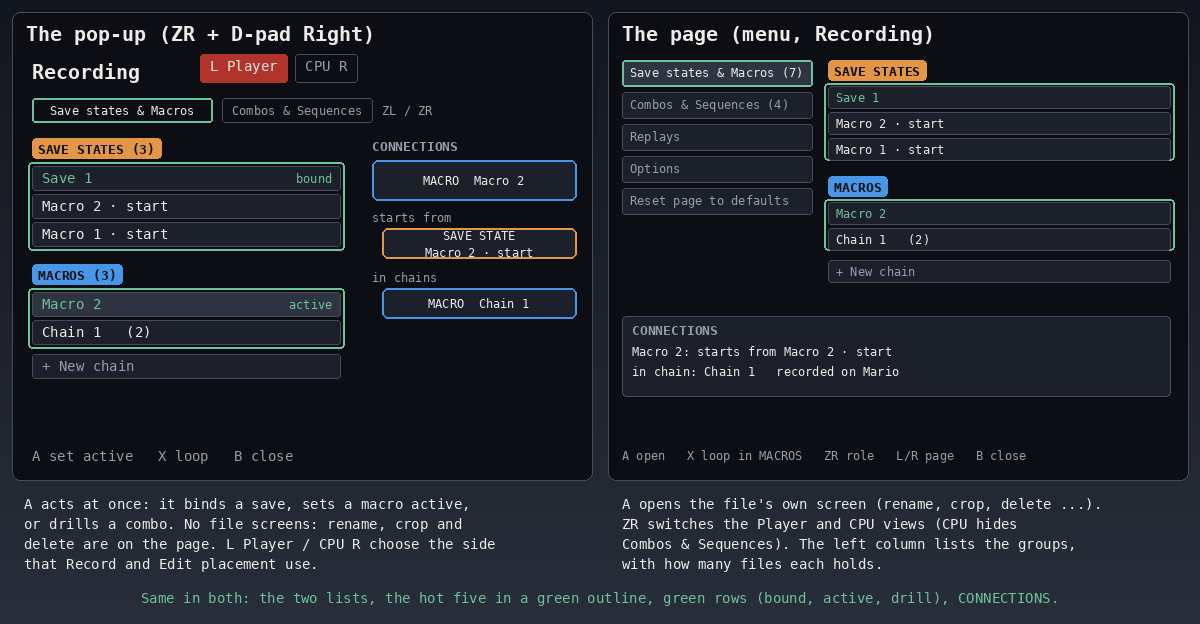
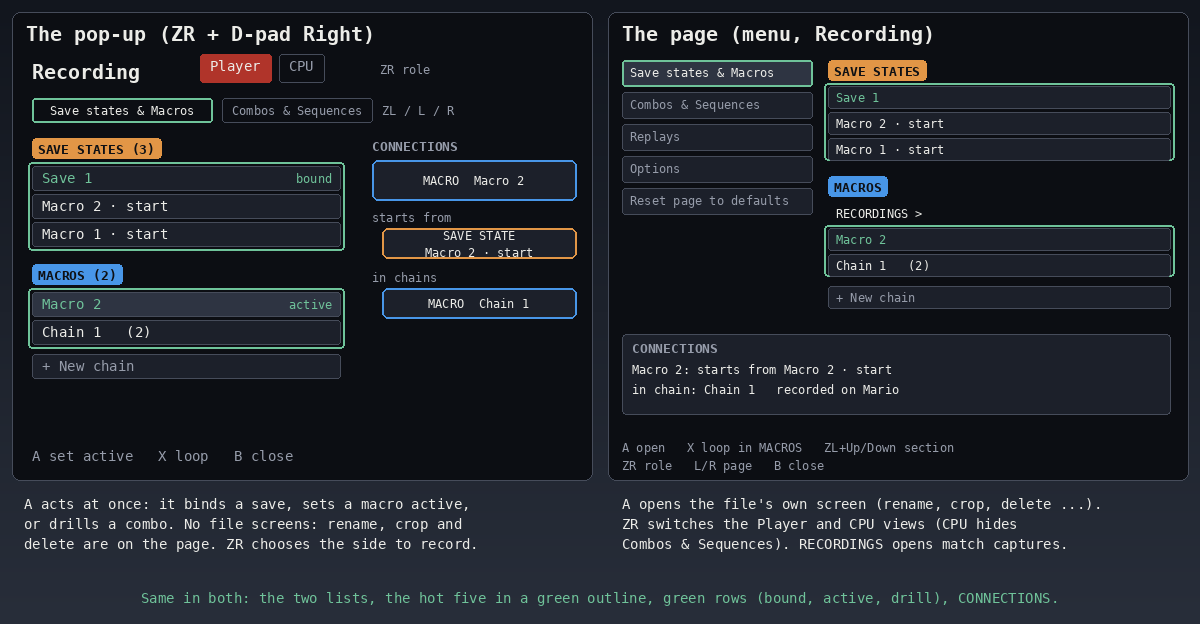
Show current Recording controls and distinguish the combo card from its link cells

diff --git a/tools/render_recording_diagrams.py b/tools/render_recording_diagrams.py
@@ -307,13 +307,14 @@ def page_popup():
     c.rect(12, 12, mid - 8, 480, fill=PANEL, outline=LINE, radius=8)
     c.text(26, 22, "The pop-up (ZR + D-pad Right)", "h", FG)
     c.text(32, 60, "Recording", "h", FG)
-    d.tabs(c, 200, 58, ["L Player", "CPU R"], 0, "xs")
+    d.tabs(c, 200, 58, ["Player", "CPU"], 0, "xs")
+    c.text(380, 62, "ZR role", "xxs", MUTED)
     px = 32
     c.rect(px, 98, px + 180, 122, outline=GREEN, width=2, radius=3)
     c.text(px + 90, 103, "Save states & Macros", "xxs", FG, "m")
     c.rect(px + 190, 98, px + 340, 122, outline=LINE, width=1, radius=3)
     c.text(px + 265, 103, "Combos & Sequences", "xxs", MUTED, "m")
-    c.text(px + 350, 103, "ZL / ZR", "xxs", MUTED)
+    c.text(px + 350, 103, "ZL / L / R", "xxs", MUTED)
     # the lists
     lx0, lx1 = 32, 340
     y = 138
@@ -328,7 +329,7 @@ def page_popup():
             c.text(lx1 - 8, y + 5, "bound", "xxs", GREEN, "r")
         y += 28
     y += 14
-    d.tag(c, lx0, y, "MACROS (3)", MACRO_C)
+    d.tag(c, lx0, y, "MACROS (2)", MACRO_C)
     y += 28
     c.rect(lx0 - 4, y - 4, lx1 + 4, y + 28 + 28, outline=GREEN, width=2, radius=4)
     for i, (t, col) in enumerate([("Macro 2", GREEN), ("Chain 1   (2)", FG), ("+ New chain", MUTED)]):
@@ -352,7 +353,7 @@ def page_popup():
     c.rect(mid + 8, 12, W - 12, 480, fill=PANEL, outline=LINE, radius=8)
     c.text(mid + 22, 22, "The page (menu, Recording)", "h", FG)
     gx = mid + 22
-    groups = [("Save states & Macros (7)", True), ("Combos & Sequences (4)", False), ("Replays", False), ("Options", False),
+    groups = [("Save states & Macros", True), ("Combos & Sequences", False), ("Replays", False), ("Options", False),
               ("Reset page to defaults", False)]
     y = 60
     for t, sel in groups:
@@ -372,6 +373,8 @@ def page_popup():
     y += 12
     d.tag(c, lx0, y, "MACROS", MACRO_C)
     y += 26
+    c.text(lx0 + 8, y + 4, "RECORDINGS >", "xxs", FG)
+    y += 26
     c.rect(lx0 - 4, y - 3, lx1 + 4, y + 26 + 22, outline=GREEN, width=2, radius=4)
     for i, (t, col) in enumerate((("Macro 2", GREEN), ("Chain 1   (2)", FG), ("+ New chain", MUTED))):
         c.rect(lx0, y, lx1, y + 22, fill=TILE, outline=LINE, radius=3)
@@ -379,20 +382,19 @@ def page_popup():
         y += 26
         if i == 1:
             y += 6
-    c.rect(gx, 316, W - 30, 396, fill=TILE, outline=LINE, radius=4)
-    c.text(gx + 10, 322, "CONNECTIONS", "b", MUTED)
-    c.text(gx + 10, 344, "Macro 2: starts from Macro 2 · start", "xxs", FG)
-    c.text(gx + 10, 364, "in chain: Chain 1   recorded on Mario", "xxs", FG)
-    c.text(gx, 448, "A open   X loop in MACROS   ZR role   L/R page   B close", "xxs", MUTED)
+    c.rect(gx, 334, W - 30, 414, fill=TILE, outline=LINE, radius=4)
+    c.text(gx + 10, 340, "CONNECTIONS", "b", MUTED)
+    c.text(gx + 10, 362, "Macro 2: starts from Macro 2 · start", "xxs", FG)
+    c.text(gx + 10, 382, "in chain: Chain 1   recorded on Mario", "xxs", FG)
+    c.text(gx, 440, "A open   X loop in MACROS   ZL+Up/Down section", "xxs", MUTED)
+    c.text(gx, 458, "ZR role   L/R page   B close", "xxs", MUTED)
     # ---- the notes
     c.text(24, 496, "A acts at once: it binds a save, sets a macro active,", "xs", FG)
     c.text(24, 516, "or drills a combo. No file screens: rename, crop and", "xs", FG)
-    c.text(24, 536, "delete are on the page. L Player / CPU R choose the side", "xs", FG)
-    c.text(24, 556, "that Record and Edit placement use.", "xs", FG)
+    c.text(24, 536, "delete are on the page. ZR chooses the side to record.", "xs", FG)
     c.text(mid + 22, 496, "A opens the file's own screen (rename, crop, delete ...).", "xs", FG)
     c.text(mid + 22, 516, "ZR switches the Player and CPU views (CPU hides", "xs", FG)
-    c.text(mid + 22, 536, "Combos & Sequences). The left column lists the groups,", "xs", FG)
-    c.text(mid + 22, 556, "with how many files each holds.", "xs", FG)
+    c.text(mid + 22, 536, "Combos & Sequences). RECORDINGS opens match captures.", "xs", FG)
     c.text(W / 2, 590, "Same in both: the two lists, the hot five in a green outline, green rows (bound, active, drill), CONNECTIONS.",
            "xs", GREEN, "m")
     c.save("recording-page-popup")

diff --git a/docs/TECHNICAL.md b/docs/TECHNICAL.md
@@ -68,11 +68,7 @@ right panel is the same capsules as one pill each. [Decisions](DECISIONS.md)*
 
 ### Frame strip
 
-The input display (Display & Controls › Input Display) is a strip at the top of the screen: the last second of
-Player 1 and the CPU, a chip for each new button, and ADVANTAGE, LINK, and INPUT for the last exchange. ADVANTAGE is
-the CPU's first actionable frame minus yours. Plus means you act first. [FRAME-STRIP.md](guide/frame-strip.md)
-is how to read the lanes, the stick row, and the readouts. The rc.5 clips are listed in
-[MEDIA.md](MEDIA.md).
+See the [frame strip guide](guide/frame-strip.md) for the lanes and readouts, and [Media](MEDIA.md) for the rc.5 clips.
 
 **Clip** [`rc8-input-display-chord.gif`](media/rc8-input-display-chord.gif): R + D-pad Down hides the frame strip, then shows it again
 
@@ -331,10 +327,8 @@ on Player 1 is off", "… Quick Reset is off"), and Player 1's input is left to 
 (jab → jab) drilled; the jabs; the bar under the frame strip grades the attempt: TRUE −5, on time. Cuts inside are
 listed in [MEDIA.md](MEDIA.md).*
 
-*+ Save last combo…*, the first row of COMBOS on the Recording page and in the recording pop-up, keeps your last combo
-as a file and makes it the drill. With *Combo helper* On, a bar under the frame strip grades each attempt link by link:
-whether the recorded inputs came, in order and on time, and whether the same move came out. A true combo is shown,
-not required. Drilling a sequence adds a header and a row of its combos to that bar.
+The [Recording guide](guide/recording.md#combos) covers saving and drilling a combo. In a sequence, the
+[corner card](design/compact-strip-layout.md) stacks up to three combos; the cells beneath the strip show individual links.
 
 Where the combo code is (moved here from the [Combo files](guide/combos.md) guide): the spec is
 [SPEC-input-07](../specs/SPEC-input-07-combo-helper.md). The drill is kept in `recording-index.json`, the recording
@@ -583,7 +577,7 @@ else keeps it hidden, decision N1). While it's hidden its rows do nothing. All t
 | Row | What it does |
 | --- | --- |
 | Preload Samples | Writes sparse timing and memory samples of preloads to the diagnostics file. |
-| Reload developer config | While On, holding L + R + A on Player 1 re-reads the developer config file every frame. |
+| Reload developer config | In Training, each P1 poll holding L + R + A queues a worker read of `dev.json`. |
 | Debug hooks | Turns on the debug watch on the Kirby backshield work float. |
 
 ### Menu shortcuts and replay capture

diff --git a/docs/menu/recording.md b/docs/menu/recording.md
@@ -4,8 +4,8 @@ Press R twice from the CPU page for your recordings, your combos and their playb
 
 ## The page and its pop-up
 
-![The pop-up and the page side by side: both show the same two lists, the hot five and CONNECTIONS](../diagrams/recording-page-popup.png)<br>
-*The pop-up and the page show the same lists.*
+![The same saves and macros in both views, with RECORDINGS on the page only](../diagrams/recording-page-popup.png)<br>
+*The page also opens match recordings.*
 
 Use your [Recording pop-up chord](display-and-controls.md#button-chords) to open the library over practice.
 
@@ -95,7 +95,7 @@ How a macro plays back, and how the Combo helper grades.
 | <a id="loop"></a>Loop | ∞, **1**, 2, 3, 5, 10 | How many times the active macro plays. X cycles it in MACROS. |
 | <a id="settings-override-playback"></a>Settings override playback | On, **Off** | Off: a playing recording wins over the DI, SDI, air-dodge, tech and throw settings. |
 | <a id="shared-start-save"></a>Shared start save | **Prompt**, Always change, Always copy | What Change placement does to a start save that several macros share. |
-| <a id="combo-helper"></a>Combo helper | **On**, Off | On: each attempt is graded under the frame strip, link by link. |
+| <a id="combo-helper"></a>Combo helper | **On**, Off | The card shows the result; cells under the strip grade individual links. |
 | <a id="match-sweet-sour-spot"></a>Match sweet/sour spot | On, **Off** | On: a link counts only if it lands the saved spot. |
 | <a id="match-angle-and-deflection"></a>Match angle and deflection | On, **Off** | On: an aimed special must match the saved stick angle and deflection. |
 | <a id="move-names"></a>Move names | On, **Off** | On: moves show their names. Off: the short names. |
@@ -120,7 +120,7 @@ How a macro plays back, and how the Combo helper grades.
 
 | If | Then |
 | --- | --- |
-| You press X or Y on this page | X never saves your defaults here, and Y does nothing. |
+| You press X or Y in the main lists | Neither changes defaults; the [capture list](../guide/recording.md#crop) has its own delete key. |
 | A file was recorded on another fighter | Play asks first, unless Ask before switching fighter is Off. |
 | You reset this page | Your files, the bound save, the active macros and the drill stay. |
 | The take has no pose for this frame | Switching fighters cannot show a pose the take did not store. |

diff --git a/docs/guide/using-the-menu.md b/docs/guide/using-the-menu.md
@@ -17,7 +17,7 @@
 | Adjust a range | Pick Min or Max; A lifts the handle, directions move it, A sets it down. |
 | Leave | B backs out one level; close the menu normally to apply changes. |
 | Reopen | You'll return to the page and row you left. |
-| <a id='your-defaults'></a>Set your defaults | X saves current settings; Y restores the focused row. File lists have their own keys. |
+| <a id='your-defaults'></a>Set your defaults | Outside Recording, X saves defaults on main pages; Y restores the focused setting. |
 | Reset one page | Choose **Reset page to defaults**, then confirm with A. |
 
 | Running a [practice game](../menu/practice-games.md) | What happens |

diff --git a/docs/menu/practice-games.md b/docs/menu/practice-games.md
@@ -44,7 +44,7 @@ Place up to ten targets, then break them all against the clock ([guide](../guide
 
 <video src="https://git.syntaxbyexample.com/intpa/TrainingRoomsForUltimate/media/blob/d0eca9a146fb35a73838b8f5fa51330d6455a5c5" autoplay muted loop playsinline controls></video>
 
-*A missed tech at 3/20, before the aim fix.* [Open the clip](../media/tut-tech-practice.mp4)
+*The counter reads 3/20 after a missed tech.* [Open the clip](../media/tut-tech-practice.mp4)
 
 Tech a launch at a chosen or random surface; Set uses a range's low end, Random both ends ([guide](../guide/tech-practice.md)).
 

diff --git a/docs/guide/tech-practice.md b/docs/guide/tech-practice.md
@@ -4,7 +4,7 @@
 
 <video src="https://git.syntaxbyexample.com/intpa/TrainingRoomsForUltimate/media/blob/d0eca9a146fb35a73838b8f5fa51330d6455a5c5" autoplay muted loop playsinline controls></video>
 
-*A missed tech at 3/20, before the aim fix.* [Open the clip](../media/tut-tech-practice.mp4)
+*The third attempt is a missed tech.* [Open the clip](../media/tut-tech-practice.mp4)
 
 | Step | What to do |
 |---|---|
